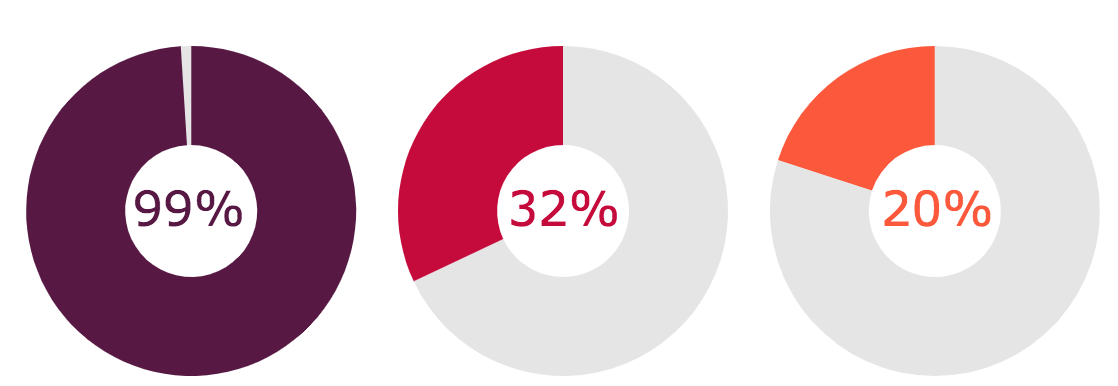
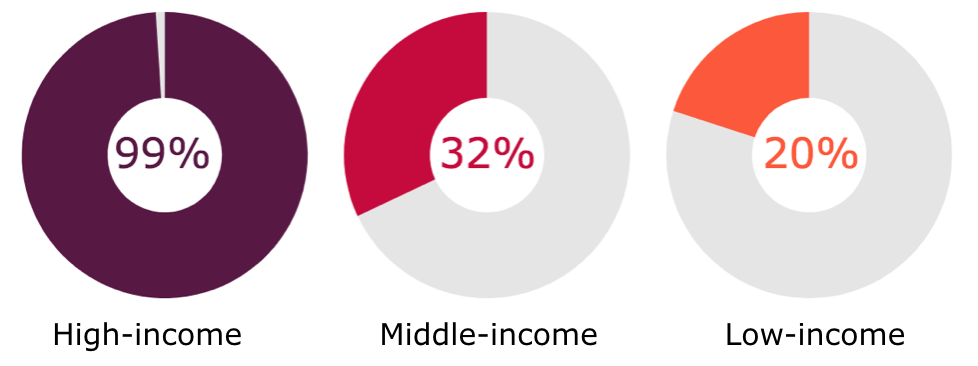
fonts etc

diff --git a/plastic_pollution/templates/content/index_details.html b/plastic_pollution/templates/content/index_details.html
@@ -75,14 +75,14 @@
 {# plastic waste map #}
 <br><br>
 <div class="container h-100">   
-<h4 class="text-center">Despite its relative low cost, the ability of countries to manage waste well depends on their GDP</h4>
+<h4 class="text-center">Despite its relative low cost, the ability of countries to manage waste well depends on their income</h4>
 <div class="row align-items-center h-100"> 
     <div class="col-md-7 text-center">
         <img src="static/images/plastic_waste_map1.png" alt="different amount of plastic waste produced per person on average from different high-income countries" width="100%"/>
         <br><br>        
     </div>
     <div class="col-md-5 mx-auto">
-    <p>High, middle, and low income countries are defined by the world bank as GDP/capita over $12,000, between $1,000 and $12,000, and under $1,000 respectively. As countries become wealthier, their consumption of many things, including single-use plastic, increases. With growing consumption of plastic, the amount discarded also goes up.</p>
+    <p>High, middle, and low income countries are defined by the world bank as GNI/capita over $12,000, between $1,000 and $12,000, and under $1,000 respectively. As countries become wealthier, their consumption of many things, including single-use plastic, increases. With growing consumption of plastic, the amount discarded also goes up.</p>
     </div>
 
 </div>
@@ -91,8 +91,9 @@
 
 {#plastic waste compasiron#}
 <br><br>
+<h4 class="text-center">Average plastic waste per person per day</h4>
+<br>
 <div class="container h-100">   
-    <h4>AVG plastic waste per person per day</h4>
 <div class="row align-items-center h-100"> 
     <div class="col-md-7">
 
@@ -151,8 +152,9 @@
 {# well managed waste #}
 <br><br>
 <div class="container">   
+<h4 class="text-center">How much plastic waste is managed well globally?</h4>
+    <br>
 <div class="row"> 
-    <h4>How much plastic waste is managed well globally?</h4>
     <div class="col-md-7">
         <img src="static/images/plastic_well_managed.png" alt="plastic waste managed adequately by country income level" width="100%"/>
     </div>
@@ -166,7 +168,7 @@
 {# city budget #}
 <br><br>
 <div class="container h-100">   
-<h4>How much is spent on waste management?</h4>
+<h4 class="text-center">How much is spent on waste management?</h4>
 <div class="row align-items-center h-100"> 
     <div class="col-md-7">
         <div>

diff --git a/plastic_pollution/static/css/custom.css b/plastic_pollution/static/css/custom.css
@@ -4,15 +4,16 @@
 html is set to 62.5% so that all the REM measurements throughout Skeleton
 are based on 10px sizing. So basically 1.5rem = 15px :) */
 html {
-  font-size: 100%; }
+  font-size: 110%; }
 body {
     background-color: white;
 }
 p {
   /*font-size: 1.6em;*/ /* currently ems cause chrome bug misinterpreting rems on body element */
-  /*line-height: 2.0em;*/
-  font-weight: 500;
-  font-family: "Open Sans", "Roboto", "HelveticaNeue", "Helvetica Neue", Helvetica, Arial, sans-serif;
+  line-height: 1.6em;
+  font-weight: 400;
+  /*font-family: 'Merriweather', serif;*/
+  /font-family: "Montserrat","Open Sans", "Roboto", "HelveticaNeue", "Helvetica Neue", Helvetica, Arial, sans-serif;
   color: #333333; }
 
 
@@ -21,8 +22,8 @@ p {
 h1, h2, h3, h4, h5, h6 {
   /*margin-top: 0;
   margin-bottom: 0;*/
-  font-family: "Montserrat";
-  font-weight: 500;
+  font-family: "Merriweather";
+  font-weight: 700;
   color: #444444;
 }
 

diff --git a/plastic_pollution/templates/html_header.html b/plastic_pollution/templates/html_header.html
@@ -12,7 +12,8 @@
     <title>{% block title %}{% endblock %} Plastic pollution </title>
 
     <style>
-        @import url('https://fonts.googleapis.com/css?family=Montserrat:500|Work+Sans|Open+Sans:400,700');
+        @import url('https://fonts.googleapis.com/css?family=Montserrat:500|Merriweather&display=swap');
+        
     </style>
     
     <link rel="shortcut icon" href="static/assets/favicon.ico">
